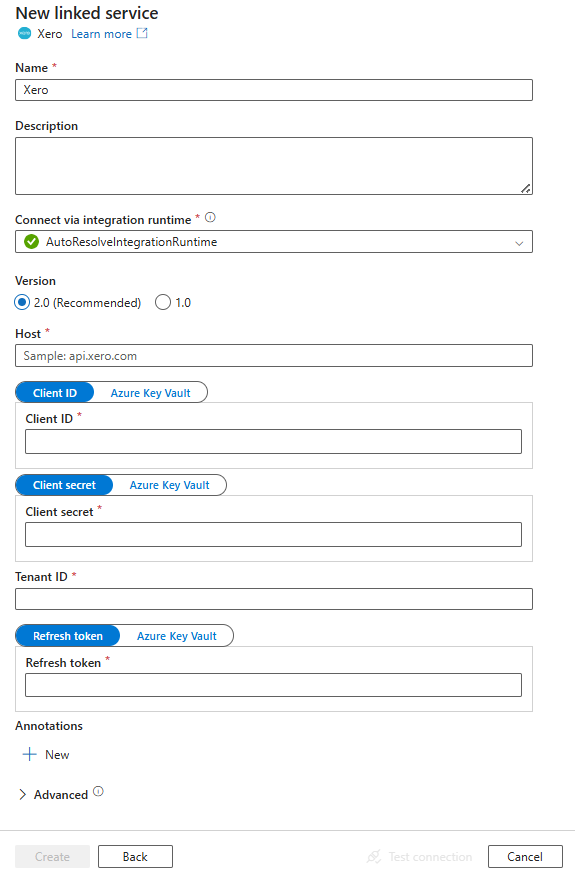
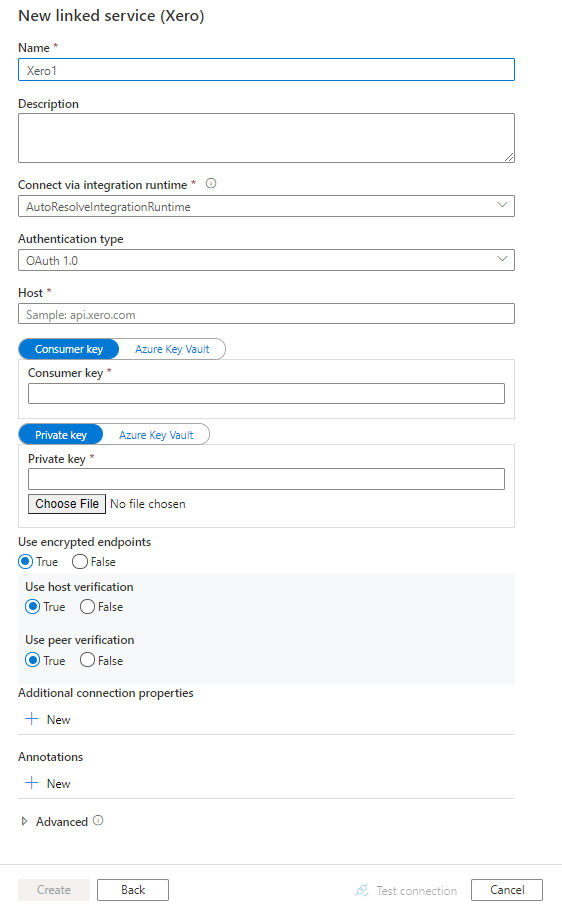
Revert "[Doc update] Update Xero V2"

diff --git a/articles/data-factory/connector-xero.md b/articles/data-factory/connector-xero.md
@@ -6,7 +6,7 @@ author: jianleishen
 ms.subservice: data-movement
 ms.custom: synapse
 ms.topic: conceptual
-ms.date: 10/16/2025
+ms.date: 11/05/2024
 ms.author: jianleishen
 ---
 # Copy data from Xero using Azure Data Factory or Synapse Analytics
@@ -17,9 +17,6 @@ This article outlines how to use the Copy Activity in an Azure Data Factory or S
 
 > [!NOTE]
 > The Xero connector requires OAuth authentication and is not intended for server-to-server use.
-
-> [!IMPORTANT]
-> The Xero connector version 2.0 provides improved native Xero support. If you are using Xero connector version 1.0 in your solution, please [upgrade the Xero connector](#upgrade-the-xero-connector-from-version-10-to-version-20) before **November 30, 2025**. Refer to this [section](#xero-connector-lifecycle-and-upgrade) for details on the difference between version 2.0 and version 1.0.
 
 ## Supported capabilities
 
@@ -76,55 +73,7 @@ The following sections provide details about properties that are used to define 
 
 ## Linked service properties
 
-The Xero connector now supports version 2.0. Refer to this [section](#upgrade-the-xero-connector-from-version-10-to-version-20) to upgrade your Xero connector version from version 1.0. For the property details, see the corresponding sections.
-
-- [Version 2.0](#version-20)
-- [Version 1.0](#version-10)
-
-### Version 2.0
-
-The Xero linked service supports the following properties when apply version 2.0:
-
-| Property | Description | Required |
-|:--- |:--- |:--- |
-| type | The type property must be set to: **Xero** | Yes |
-| version | The version that you specify. The value is `2.0`. | Yes |
-| host | The endpoint of the Xero server (`api.xero.com`).  | Yes |
-| consumerKey | Specify the **client ID** for your Xero application.<br>Mark this field as a SecureString to store it securely, or [reference a secret stored in Azure Key Vault](store-credentials-in-key-vault.md). | Yes |
-| privateKey | Specify the **client secret** for your Xero application.<br/>Mark this field as a SecureString to store it securely, or [reference a secret stored in Azure Key Vault](store-credentials-in-key-vault.md). | Yes |
-| tenantId | The tenant ID associated with your Xero application. Applicable for OAuth 2.0 authentication.<br>Learn how to get the tenant ID from [Check the tenants you're authorized to access section](https://developer.xero.com/documentation/oauth2/auth-flow). | Yes |
-| refreshToken | The OAuth 2.0 refresh token is associated with the Xero application and used to refresh the access token; the access token expires after 30 minutes. Learn about how the Xero authorization flow works and how to get the refresh token from [this article](https://developer.xero.com/documentation/oauth2/auth-flow). To get a refresh token, you must request the [offline_access scope](https://developer.xero.com/documentation/oauth2/scopes). <br/>**Know limitation**: Note Xero resets the refresh token after it's used for access token refresh. For operationalized workload, before each copy activity run, you need to set a valid refresh token for the service to use.<br/>Mark this field as a SecureString to store it securely, or [reference a secret stored in Azure Key Vault](store-credentials-in-key-vault.md). | Yes |
-| connectVia | The [integration runtime](concepts-integration-runtime.md) to be used to connect to the data store. If no value is specified, the property uses the default Azure integration runtime. | No |
-
-**Example:**
-
-```json
-{
-    "name": "XeroLinkedService",
-    "properties": {
-        "type": "Xero",
-        "typeProperties": {
-            "host": "api.xero.com",
-            "consumerKey": "<client ID>",
-            "privateKey": {
-                "type": "SecureString",
-                "value": "<client secret>"
-            },
-            "tenantId": "<tenant ID>", 
-            "refreshToken": {
-                "type": "SecureString",
-                "value": "<refresh token>"
-            },
-            "authenticationType":"OAuth_2.0", 
-            "version": "2.0"         
-        }
-    }
-}
-```
-
-### Version 1.0
-
-The Xero linked service supports the following properties when apply version 1.0:
+The following properties are supported for Xero linked service:
 
 | Property | Description | Required |
 |:--- |:--- |:--- |
@@ -219,7 +168,7 @@ To copy data from Xero, set the type property of the dataset to **XeroObject**. 
 | Property | Description | Required |
 |:--- |:--- |:--- |
 | type | The type property of the dataset must be set to: **XeroObject** | Yes |
-| tableName | Name of the table. For version 2.0, table names use the object name, for example: `Accounts`. For version 1.0, table names use simplified names with prefix, for example, `"Global"."Accounts"`. | Yes for version 2.0.<br>No for version 1.0 (if "query" in activity source is specified) |
+| tableName | Name of the table. | No (if "query" in activity source is specified) |
 
 **Example**
 
@@ -238,50 +187,6 @@ To copy data from Xero, set the type property of the dataset to **XeroObject**. 
 }
 ```
 
-The connector version 2.0 supports the following Xero tables:
-
-- Accounts
-- Bank_Transactions
-- Bank_Transaction_Line_Items
-- Bank_Transfers
-- Budgets
-- Contacts
-- Contacts_Addresses
-- Contact_Groups
-- Contact_Group_Contacts
-- Contacts_Phones
-- Credit_Notes
-- Credit_Note_Line_Items
-- Credit_Notes_Line_Items_Tracking
-- Currencies
-- Invoices
-- Invoices_Credit_Notes
-- Invoice_Line_Items
-- Invoice_Line_Items_Tracking
-- Invoices_Overpayments
-- Invoices_Prepayments
-- Items
-- Journals
-- Journal_Lines
-- Journal_Line_Tracking_Categories
-- Manual_Journals
-- Manual_Journal_Lines
-- Organisations
-- Overpayments
-- Payments
-- Prepayments
-- Prepayments_Allocations
-- Prepayment_Line_Items
-- Projects
-- ProjectUsers
-- Purchase_Orders
-- Purchase_Order_Line_Items
-- Receipts
-- Tax_Rates
-- Tracking_Categories
-- Tracking_Categories_Options
-- Users
-
 ## Copy activity properties
 
 For a full list of sections and properties available for defining activities, see the [Pipelines](concepts-pipelines-activities.md) article. This section provides a list of properties supported by Xero source.
@@ -294,9 +199,6 @@ To copy data from Xero, set the source type in the copy activity to **XeroSource
 |:--- |:--- |:--- |
 | type | The type property of the copy activity source must be set to: **XeroSource** | Yes |
 | query | Use the custom SQL query to read data. For example: `"SELECT * FROM Contacts"`. | No (if "tableName" in dataset is specified) |
-
-> [!NOTE]
-> `query` is not supported in version 2.0.
 
 **Example:**
 
@@ -384,42 +286,10 @@ The following tables can only be queried with complete schema:
 - Complete.Receipt_Line_Item_Tracking 
 - Complete.Tracking_Category_Options
 
-## Data type mapping for Xero
-
-When you copy data from Xero, the following mappings apply from Xero's data types to the internal data types used by the service. To learn about how the copy activity maps the source schema and data type to the sink, see [Schema and data type mappings](copy-activity-schema-and-type-mapping.md).
-
-| Xero data type    | Interim service data type (for version 2.0) | Interim service data type (for version 1.0) |
-|-------------------|-------------------------------------------|---------------------------------------------|
-| String            | String                                    | String                                      |
-| Date              | String                                    | Date                                        |
-| DateTime          | String                                    | String                                    |
-| Boolean           | Boolean                                   | Boolean                                     |
-| Number (standard) | Int32                                     | Int32                                       |
-| Number (large)    | Int64                                     | Int64                                       |
-
 ## Lookup activity properties
 
 To learn details about the properties, check [Lookup activity](control-flow-lookup-activity.md).
 
-## Xero connector lifecycle and upgrade
-
-The following table shows the release stage and change logs for different versions of the Xero connector:
-
-| Version  | Release stage | Change log |  
-| :----------- | :------- |:------- |
-| Version 1.0 | End of support announced | / |  
-| Version 2.0 | GA version available |• The `tableName` value is `<Object Name>`, for example: `Accounts`. <br><br>• Date is read as String data type. <br><br>• `useEncryptedEndpoints`, `useHostVerification`, `usePeerVerification` are not supported in the linked service. <br><br>  • `query` is not supported. <br><br>  • OAuth 1.0 authentication is not supported. <br><br> • Support specific Xero tables. For the supported table list, go to [Dataset properties](#dataset-properties).|
-
-### Upgrade the Xero connector from version 1.0 to version 2.0
-
-1. In **Edit linked service** page, select version 2.0 and configure the linked service by referring to [Linked service properties version 2.0](#version-20).
-
-1. The data type mapping for the Xero linked service version 2.0 is different from that for the version 1.0. To learn the latest data type mapping, see [Data type mapping for Xero](#data-type-mapping-for-xero).
-
-1. `query` is only supported in version 1.0. You should use the `tableName` instead of `query` in version 2.0.
-
-> [!NOTE]
-> Version 2.0 supports specific Xero tables. For the supported table list, go to [Dataset properties](#dataset-properties).
 
 ## Related content
 For a list of supported data stores by the copy activity, see [supported data stores](copy-activity-overview.md#supported-data-stores-and-formats).

diff --git a/articles/data-factory/connector-release-stages-and-timelines.md b/articles/data-factory/connector-release-stages-and-timelines.md
@@ -95,8 +95,6 @@ For comprehensive details on support levels and recommended usage at each stage,
 |                                    | version 1.0    | End of support                                | September 30, 2025     | October 31, 2025                     |
 | [Vertica](connector-vertica.md)                            | version 2.0    | GA                                | /                   | /                   |
 |                                    | version 1.0    | Removed       | July 31, 2025         | September 30, 2025    |
-| [Xero](connector-xero.md)                            | version 2.0    | GA                                | /                   | /                   |
-|                                    | version 1.0    | End of support announced   | November 30, 2025         | December 31, 2025    |
 | [Zoho (Preview)](connector-zoho.md)                        | /              | Removed                    | December 31, 2024     | December 31, 2024     |
 
 ## Related content
